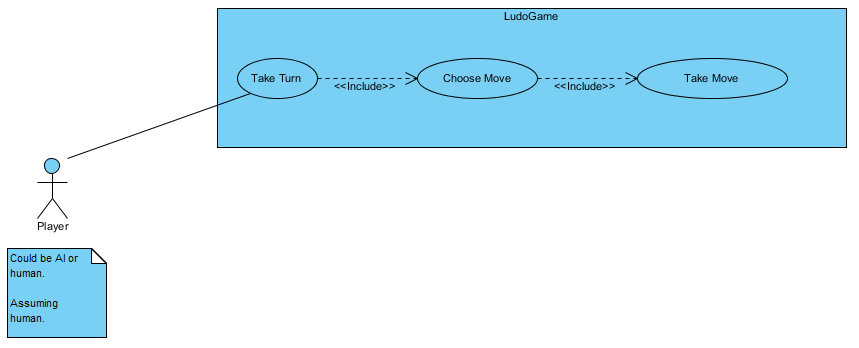
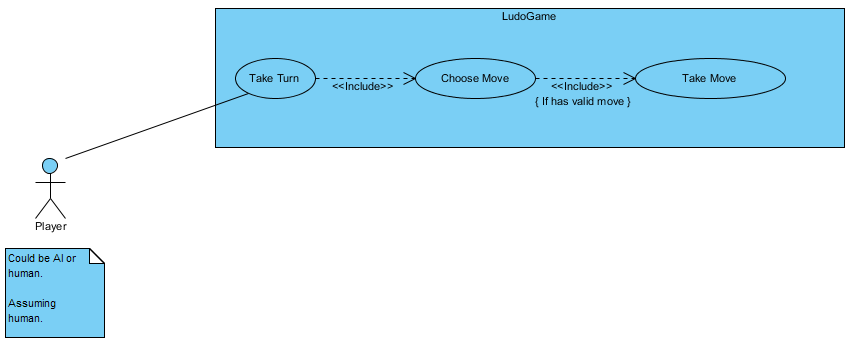
Include alternative flows and a guard for #15.

diff --git a/Milestone 2 Models/UseCaseDiagramDescription.md b/Milestone 2 Models/UseCaseDiagramDescription.md
@@ -10,3 +10,8 @@ A player.
 1. Start of player's turn.
 2. Player chooses a move according to their given strategy and the die roll.
 3. The player takes their chosen move.
+4. The player's turn is over.
+
+### Alternative Flow ###
+[Player has no valid moves]
+The player skips step 3.
